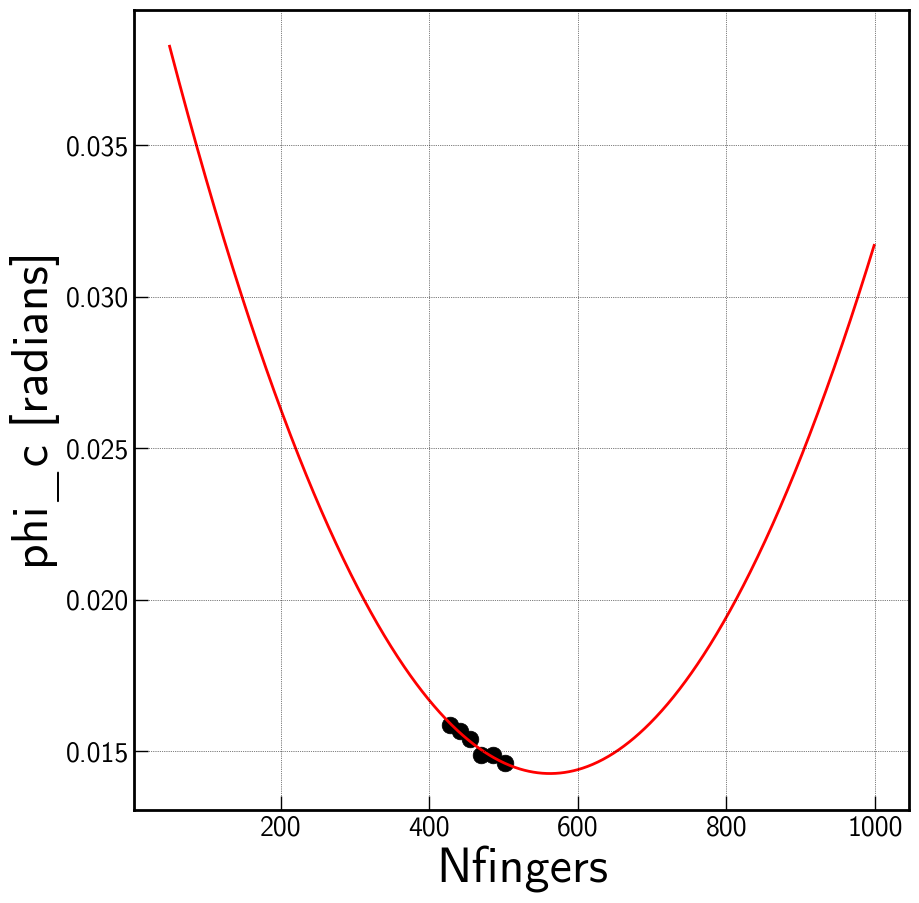
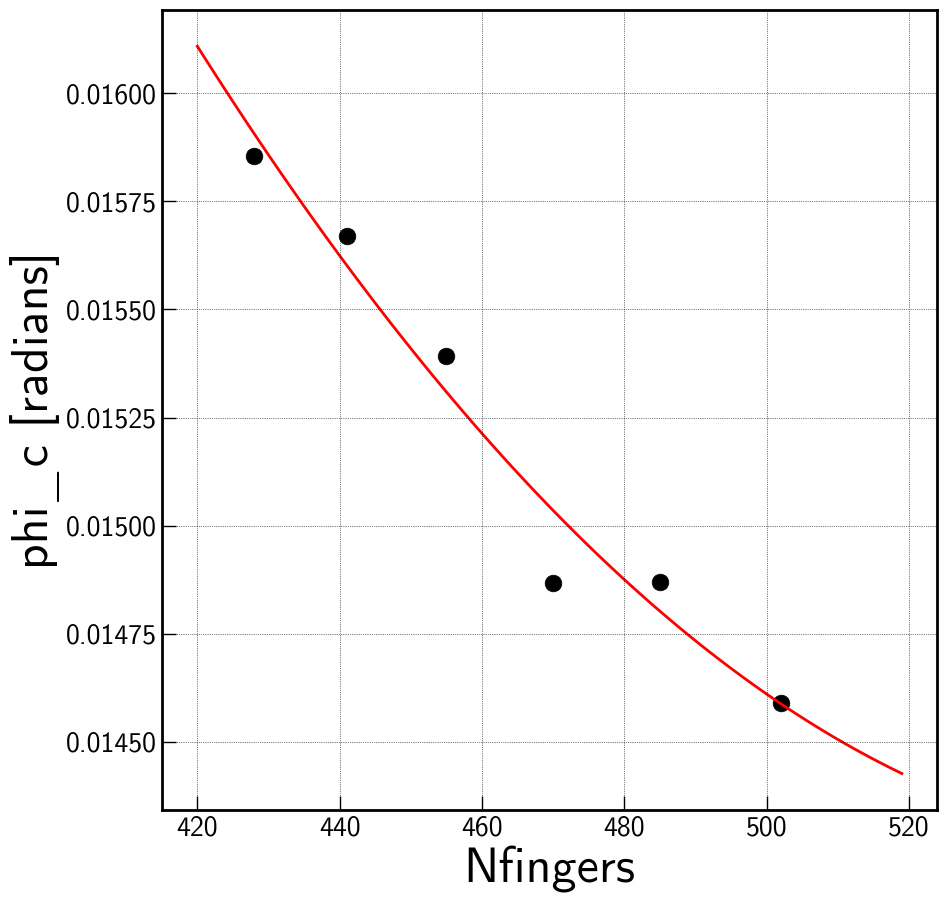
added a powerlaw fit to Qc

diff --git a/code/ACTKID_extractQcsfromfullresosims.py b/code/ACTKID_extractQcsfromfullresosims.py
@@ -960,8 +960,8 @@ if __name__=="__main__":
                 path = os.path.join(plotdir,'reso_%d'%section + ".png")
                 #plt.savefig(path)
                 plt.savefig(path, bbox_extra_artists=(lgd,), bbox_inches='tight')
-                plt.show()
-                #plt.close()
+                #plt.show()
+                plt.close()
 
                 plt.figure(300 + ires )
                 scale = np.max(mmag)**0.5
@@ -974,16 +974,16 @@ if __name__=="__main__":
                 plt.legend(loc='upper right')
                 path = os.path.join(plotdir,'reso_IQ_%d'%section + ".png")
                 plt.savefig(path)
-                plt.show()
+                #plt.show()
                 plt.close()
 
-        f0 = 300
-        N0 = 502
+        f0 = 330
+        N0 = 500
         mask = np.ones_like(Nfingers, dtype=bool)
         mask[-1] = False
         p = np.polyfit(Nfingers[mask]/N0, Qcs[mask], 2)
         print ("Qc fitting parameters vs. Nfingers", p)
-        Nfine = np.arange(50, 1000, 1)
+        Nfine = np.arange(420, 520, 1)
         Qcfine = np.polyval(p, Nfine/N0)
         Qcresiduals = (Qcs - np.polyval(p, Nfingers/N0))/Qcs
 
@@ -1023,31 +1023,37 @@ if __name__=="__main__":
         #plt.show()
         plt.close('all')
 
-        p = np.polyfit(frs/f0, Qcs, 2)
+        p = np.polyfit(frs[mask]/f0, Qcs[mask], 2)
+        p2 = np.polyfit(np.log(frs[mask]/f0), np.log(Qcs[mask]), 1)
         print ("Qc fitting parameters vs. freq", p)
-        frfine = np.r_[300:360:2000j]
+        print ("Qc fitting parameters vs. freq", p2)
+        frfine = np.r_[320:360:2000j]
         Qcfine = np.polyval(p, frfine/f0)
+        Qcfine2 = np.exp(np.polyval(p2, np.log(frfine/f0)))
         Qcresiduals = (Qcs - np.polyval(p, frs/f0))/Qcs
 
         plt.figure(123)
-        plt.plot(frs, Qcs, 'ko', ls='None', ms=12)
-        plt.plot(frfine, Qcfine, 'r-')
+        plt.plot(frs[mask], Qcs[mask], 'ko', ls='None', ms=12)
+        plt.plot(frfine, Qcfine, 'r-', label='quadratic fit')
+        plt.plot(frfine, Qcfine2, 'b-', label='power law fit')
         plt.grid()
         plt.xlabel('fr [MHz]')
+        plt.legend(loc='upper right')
         plt.ylabel('Qc ')
         plt.savefig(plotdir + 'Qc_vs_fr.png')
 
-        p = np.polyfit(frs/f0, phics, 2)
+        p = np.polyfit(frs[mask]/f0, phics[mask], 2)
         print ("phic fitting parameters vs. freq", p)
         phicfine = np.polyval(p, frfine/f0)
         phicresiduals = (phics - np.polyval(p, frs/f0))/phics
         plt.figure(124)
-        plt.plot(frs, phics, 'ko', ls='None', ms=12)
+        plt.plot(frs[mask], phics[mask], 'ko', ls='None', ms=12)
         plt.plot(frfine, phicfine, 'r-')
         plt.grid()
         plt.xlabel('fr [MHz]')
         plt.ylabel('phi_c [radians]')
         plt.savefig(plotdir + 'phic_vs_fr.png')
+        plt.show()
 
         plt.figure(125)
         plt.plot(frs[mask], Qcresiduals[mask], 'ko', ls='None', ms=12)
@@ -1063,5 +1069,4 @@ if __name__=="__main__":
         plt.ylabel('fractional phic residuals')
         plt.savefig(plotdir + 'phicresiduals_vs_fr.png')
 
-        #plt.show()
 
